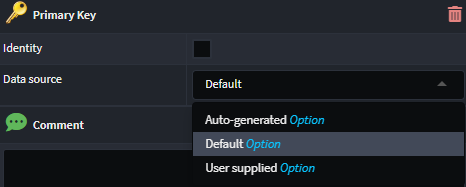
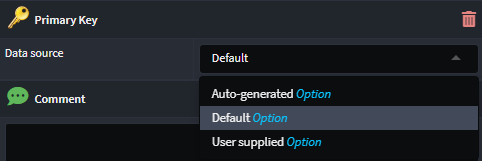
Updated documentation

diff --git a/Modules/Intent.Modules.Metadata.RDBMS/docs/README.md b/Modules/Intent.Modules.Metadata.RDBMS/docs/README.md
@@ -134,12 +134,14 @@ Once applied, the following properties can be set:
 
 By default, each `Class` in your domain will have an `Attribute` named `Id` with the `Primary Key` stereotype. The type of this attribute will default to the configured `Database Settings > Key Type`.
 
-This stereotype can be manually applied to `Attributes`, and can also be applied to multiple `Attributes` to create composite primary keys. The stereotype is represented by a golden key icon.
+This stereotype can be manually applied to an `Attribute`, and can also be applied to multiple `Attributes` to create composite primary keys. The stereotype is represented by a golden key icon.
 
 Once applied, the following properties can be set for the `Attribute`:
 
-- **Identity**: Indicates if the primary key is an _Identity_.
-- **Data Source**: Specifies the source of the primary key.
+- **Data Source**: Specifies the source of the Primary Key.
+  - **Auto-generated**: Allow for the underlying database provider to generate the Primary Key value (e.g., SQL Server `IDENTITY`, PostgreSQL `SERIAL`, Oracle `SEQUENCE`). Prevents user-specified values in some mapping instances.
+  - **Default**: Uses the default configuration settings for key generation as defined in the database settings for the underlying database provider. Prevents user-specified values in some mapping instances.
+  - **User supplied**: No automatic generation occurs; values must be explicitly provided (e.g., natural keys like ISBN for books).
 
 ![Primary Key](images/primary-key.png)
 
